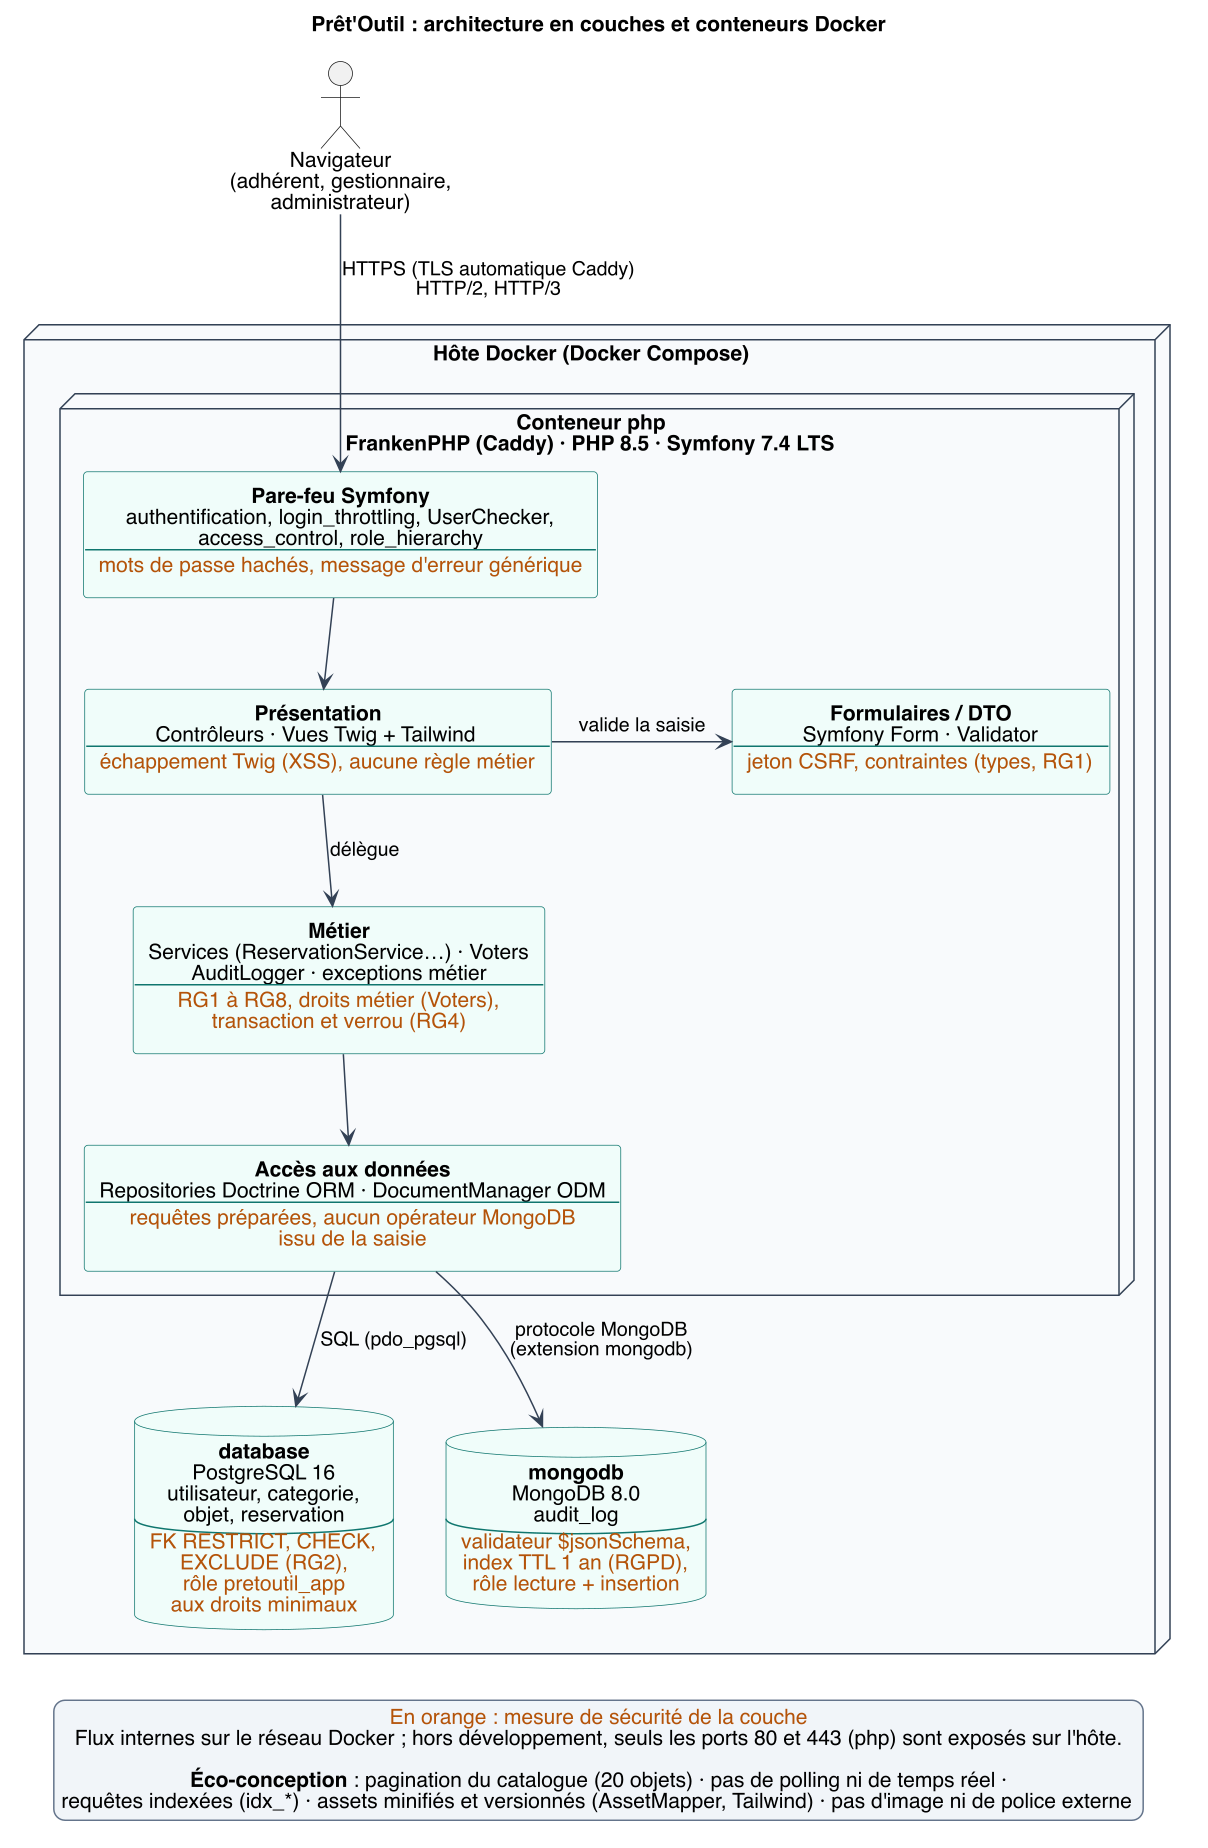
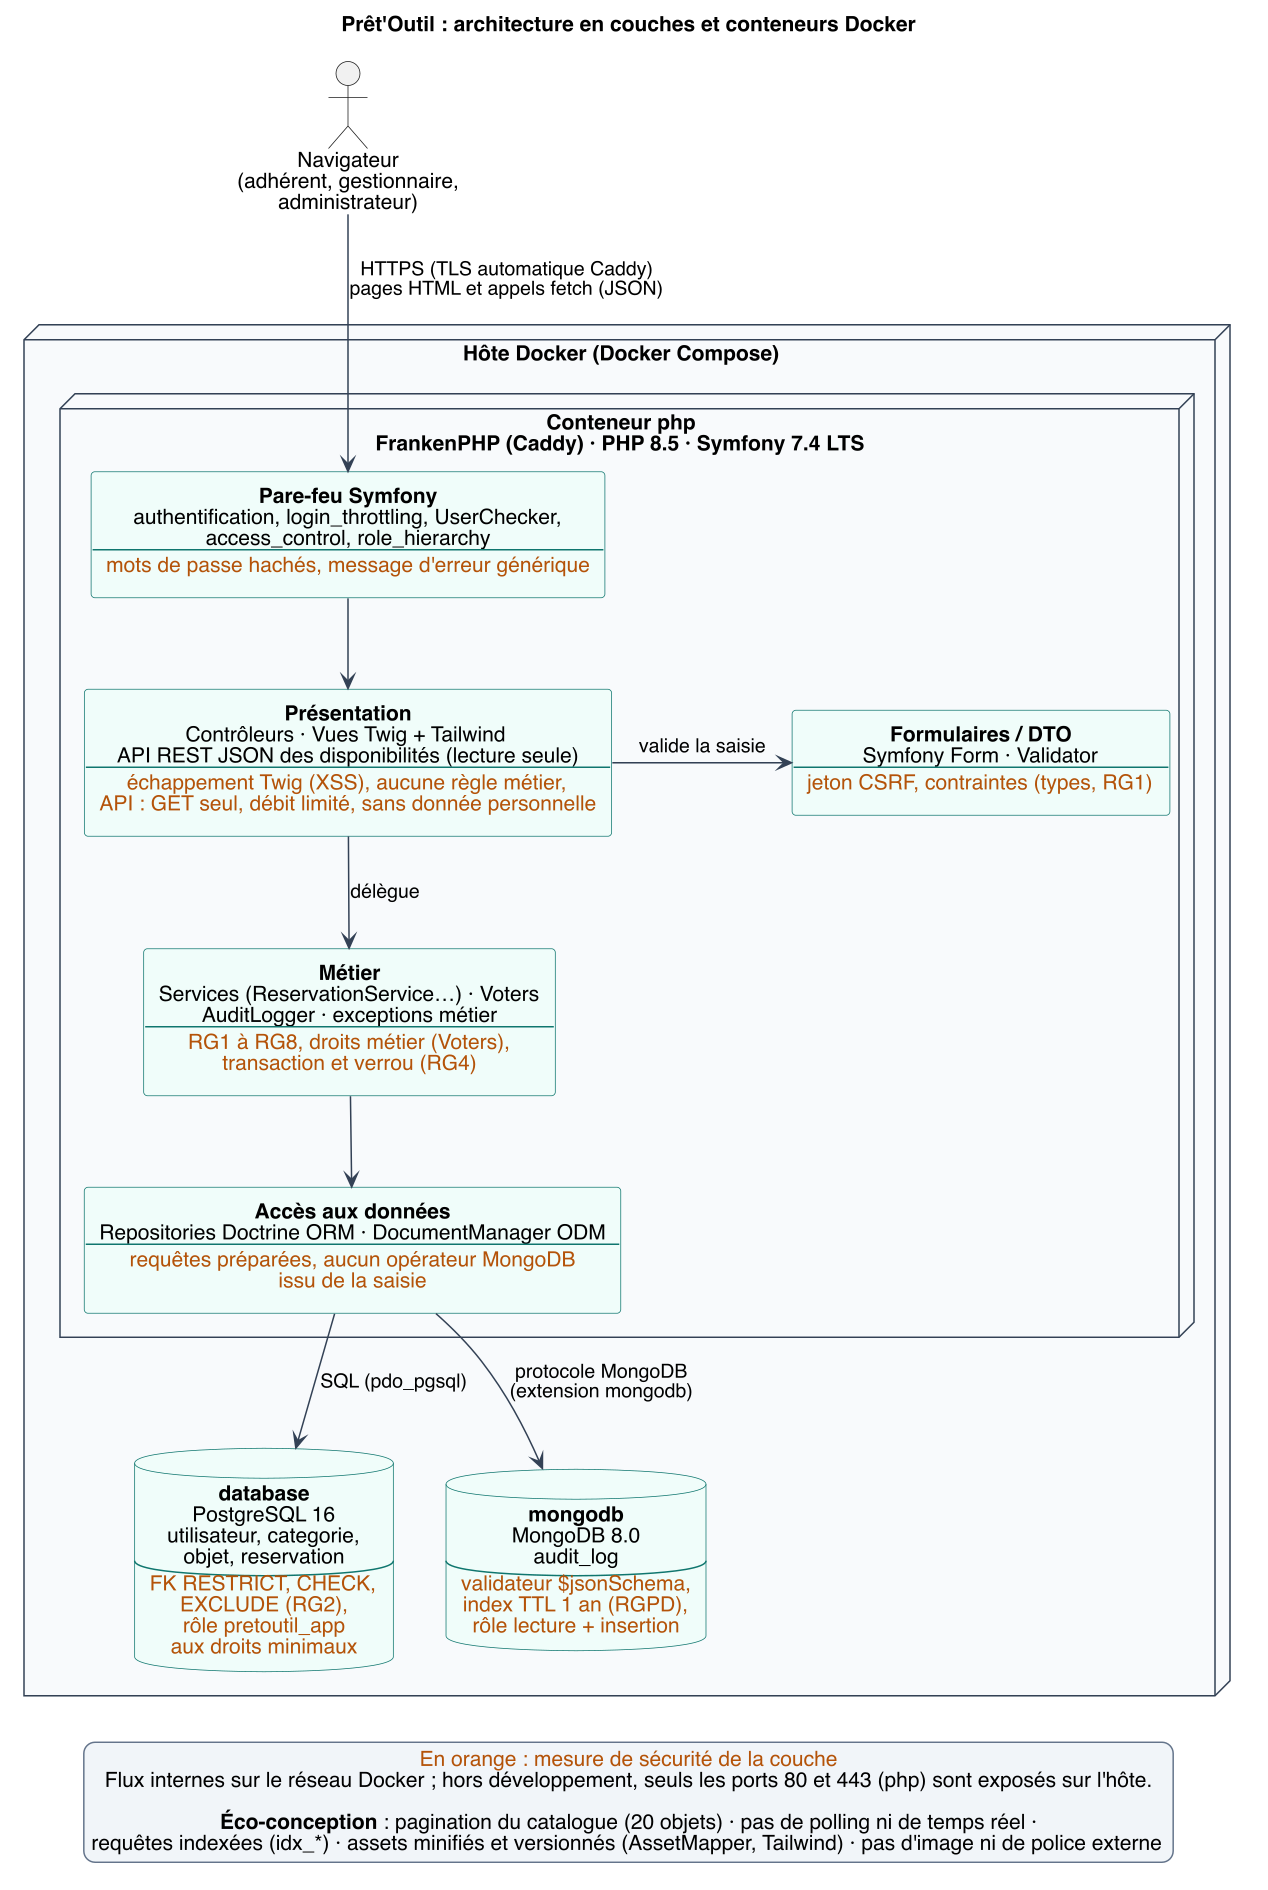
docs(api): documente l'API des disponibilités et l'ajoute au schéma d'architecture
Le jury doit retrouver le point d'accès, ses réponses, ses erreurs et ses mesures de sécurité, et voir l'API dans l'architecture répartie présentée.

Changed region(s): [[0.0306, 0.0, 0.9801, 0.987]]

diff --git a/docs/conception/api.md b/docs/conception/api.md
@@ -1,0 +1,115 @@
+# API REST des disponibilités
+
+Ticket : [#49 J6-C1 API REST des disponibilités (US11)](https://github.com/IamArayel/MSP2-PretOutil/issues/49) · Exigences : [cahier des charges, section 6.5](../cahier-des-charges.md#65-api-rest-des-disponibilités)
+
+API en lecture seule qui indique la disponibilité d'un objet. L'écran E4 l'appelle en JavaScript dès que l'adhérent a saisi ses dates, pour l'informer avant l'envoi du formulaire (US11). Elle rend l'architecture répartie concrète : un client appelle un service par HTTP et reçoit du JSON.
+
+## 1. Point d'accès
+
+```text
+GET /api/objets/{id}/disponibilites
+GET /api/objets/{id}/disponibilites?debut=AAAA-MM-JJ&fin=AAAA-MM-JJ
+```
+
+| Paramètre | Où | Obligatoire | Format | Rôle |
+|---|---|---|---|---|
+| `id` | Chemin | Oui | Entier | Identifiant de l'objet |
+| `debut` | Requête | Non, mais avec `fin` | `AAAA-MM-JJ` (ISO 8601) | Premier jour de la période à vérifier, inclus |
+| `fin` | Requête | Non, mais avec `debut` | `AAAA-MM-JJ` (ISO 8601) | Dernier jour de la période à vérifier, inclus |
+
+Accès public, comme le catalogue : aucune authentification, aucun jeton CSRF (aucune donnée n'est modifiée).
+
+## 2. Réponses
+
+### 200 : objet trouvé
+
+```json
+{
+    "objet": { "id": 12, "nom": "Tente 4 places" },
+    "statut_du_jour": { "code": "disponible", "libelle": "Disponible" },
+    "periodes_reservees": [
+        { "debut": "2026-12-01", "fin": "2026-12-03" }
+    ],
+    "periode_demandee": {
+        "debut": "2026-12-02",
+        "fin": "2026-12-04",
+        "disponible": false,
+        "motif": "Cet objet est déjà réservé sur une partie de cette période. Choisissez d'autres dates."
+    }
+}
+```
+
+| Champ | Contenu |
+|---|---|
+| `objet` | Identifiant et nom |
+| `statut_du_jour.code` | `disponible`, `reserve`, `sorti` ou `hors_service` (même calcul que le badge des écrans E3 et E4) |
+| `periodes_reservees` | Réservations actives à venir ou en cours : dates seulement, jamais l'adhérent |
+| `periode_demandee` | Présent seulement si `debut` et `fin` sont fournis |
+| `periode_demandee.disponible` | `true` si la réservation serait acceptée sur cette période |
+| `periode_demandee.motif` | Message de la règle qui la refuserait, `null` si disponible |
+
+La disponibilité applique les règles de `ReservationService` par sa méthode `verifierDisponibilite()`, sans les recopier : RG1 (dates), RG3 (14 jours), RG5 (objet hors service) et retour en retard, RG2 (chevauchement). Le quota RG4 dépend de l'adhérent et n'est pas vérifié par l'API, qui est publique. L'API informe seulement : à l'envoi du formulaire, `reserver()` revérifie toutes les règles, sous verrou.
+
+### Erreurs
+
+Toutes les erreurs ont la forme `{"erreur": "message"}`, mise en place par `App\EventSubscriber\ApiExceptionSubscriber` pour les chemins `/api/`.
+
+| Code | Cas | Message |
+|---|---|---|
+| 400 | Date inexistante ou mal formée (`2026-02-30`, `2026-12-1`, `demain`) | Le paramètre debut (ou fin) doit être une date au format AAAA-MM-JJ. |
+| 400 | Une seule des deux dates | Les paramètres debut et fin vont ensemble. |
+| 404 | Objet inconnu ou retiré du catalogue | Objet introuvable. |
+| 405 | Méthode autre que `GET` | Méthode non autorisée : l'API est en lecture seule (GET). |
+| 429 | Plus de 30 appels par minute depuis la même adresse IP ; en-tête `Retry-After` | Trop de requêtes. Réessayez dans quelques instants. |
+| 500 | Erreur inattendue | Erreur interne. (aucun détail technique) |
+
+Une période refusée par une règle de gestion n'est pas une erreur : la réponse est 200, avec `disponible: false` et le motif.
+
+## 3. Exemples
+
+```bash
+curl -k "https://localhost/api/objets/12/disponibilites"
+curl -k "https://localhost/api/objets/12/disponibilites?debut=2026-12-02&fin=2026-12-04"
+```
+
+## 4. Sécurité et sobriété
+
+| Mesure | Mise en œuvre |
+|---|---|
+| Lecture seule | Route déclarée en `GET` ; toute autre méthode renvoie 405 |
+| Minimisation (RGPD) | Dates et statuts seulement ; un test vérifie que l'email et le nom de l'adhérent n'apparaissent pas |
+| Entrées validées | Format exact `AAAA-MM-JJ`, les deux dates ensemble ; identifiant numérique (`requirements`) |
+| Limitation de débit | `symfony/rate-limiter`, fenêtre glissante, 30 appels par minute et par adresse IP (`config/packages/rate_limiter.yaml`) |
+| Pas de fuite d'information | Messages d'erreur génériques, sauf pour les erreurs de saisie |
+| Échappement | Protections par défaut de `JsonResponse` conservées ; côté client, le message est inséré avec `textContent`, jamais `innerHTML` |
+| Fraîcheur | `Cache-Control: no-store` : une disponibilité n'est jamais servie depuis un cache |
+| Pas de polling | Un appel à chaque modification d'une date ; une saisie plus récente annule l'appel en cours |
+
+## 5. Client : écran E4
+
+Le module [assets/disponibilites.js](../../assets/disponibilites.js) est chargé par AssetMapper sur toutes les pages, mais n'agit que sur un formulaire qui porte l'attribut `data-disponibilites-url`, c'est-à-dire le formulaire de réservation de E4 affiché à un adhérent connecté.
+
+- Quand les deux dates sont remplies, il appelle l'API et affiche « Disponible sur ces dates. » ou le motif du refus.
+- Le message est placé dans une zone `aria-live` toujours présente dans la page : les lecteurs d'écran l'annoncent.
+- Amélioration progressive : sans JavaScript, ou si l'API ne répond pas, rien n'est affiché et le formulaire fonctionne comme avant.
+
+Un visiteur non connecté n'a pas de formulaire sur E4 : il vérifie les disponibilités avec le filtre de période du catalogue (E3).
+
+## 6. Tests
+
+[tests/Controller/Api/DisponibiliteControllerTest.php](../../tests/Controller/Api/DisponibiliteControllerTest.php), 14 tests fonctionnels (vraies requêtes HTTP sur la base de test, transaction annulée après chaque test) :
+
+| Cas | Attendu |
+|---|---|
+| Sans période | 200, JSON, `no-store`, objet, statut du jour, périodes réservées, pas de `periode_demandee` |
+| Données personnelles | Ni l'email ni le nom de l'adhérent dans la réponse |
+| Période qui chevauche une réservation | `disponible: false`, motif RG2 |
+| Période libre | `disponible: true`, motif `null` |
+| Objet hors service | Statut `hors_service`, `disponible: false` |
+| Mêmes règles que la réservation | Motifs RG1 (début passé) et RG3 (15 jours) |
+| 4 paramètres invalides | 400 et `erreur` |
+| Objet désactivé, objet inconnu | 404 en JSON |
+| `POST` | 405 en JSON |
+| 31 appels | Les 30 premiers acceptés, le 31e : 429 et `Retry-After` |
+
+Vérifié aussi par `curl` sur la base de développement : mêmes réponses, et 429 après 30 appels dans la minute.

diff --git a/README.md b/README.md
@@ -222,6 +222,7 @@ Schéma complet (couches, conteneurs Docker, sécurité, éco-conception) : [doc
 | Conventions de nommage | [docs/conception/conventions-nommage.md](docs/conception/conventions-nommage.md) | |
 | Requêtes du catalogue (vérification et plan d'exécution) | [docs/conception/requetes-catalogue.md](docs/conception/requetes-catalogue.md) | |
 | ReservationService : règles, exceptions et vérification | [docs/conception/reservation-service.md](docs/conception/reservation-service.md) | |
+| API REST des disponibilités (point d'accès, réponses, erreurs, sécurité, tests) | [docs/conception/api.md](docs/conception/api.md) | |
 | Diagramme de séquence « Réserver un objet » | [PlantUML](docs/diagrammes/sequence-reserver.puml), [note](docs/diagrammes/sequence-reserver.md) | [SVG](docs/diagrammes/sequence-reserver.svg), [PNG](docs/diagrammes/sequence-reserver.png) |
 | Schéma d'architecture | [PlantUML](docs/diagrammes/architecture.puml), [note](docs/diagrammes/architecture.md) | [SVG](docs/diagrammes/architecture.svg), [PNG](docs/diagrammes/architecture.png) |
 
@@ -482,6 +483,14 @@ docker compose exec php bin/console app:mongodb:check
 
 `app:mongodb:check` lit la collection `audit_log` avec le compte applicatif, puis vérifie qu'une écriture dans une autre collection est refusée.
 
+### API REST des disponibilités
+
+`GET /api/objets/{id}/disponibilites`, avec `debut` et `fin` facultatifs (`AAAA-MM-JJ`) : lecture seule, publique, 30 appels par minute et par adresse IP. L'écran E4 l'appelle quand l'adhérent saisit ses dates. Documentation complète : [docs/conception/api.md](docs/conception/api.md).
+
+```bash
+curl -k "https://localhost/api/objets/1/disponibilites?debut=2026-12-02&fin=2026-12-04"
+```
+
 ### Tests
 
 PHPUnit est installé en dépendance de développement (`symfony/test-pack`). Les tests sont dans `tests/`, rangés comme le code de `src/`.
@@ -684,3 +693,8 @@ Aucun mot de passe n'est versionné. `compose.yaml` transmet `.env.local` aux tr
 | 2026-11-24 | Écran E5 dans un contrôleur dédié (`MesReservationsController`), page provisoire retirée de `EspaceController` | Une responsabilité par contrôleur ; évite un conflit avec le remplacement de `/gestion` par l'écran E6 (#55) |
 | 2026-11-24 | Bouton « Annuler » affiché selon `ReservationVoter::ANNULER`, action protégée par le même Voter et un jeton CSRF propre à chaque réservation | La règle RG6 n'est écrite qu'à un endroit ; un jeton ne peut pas servir à annuler une autre réservation |
 | 2026-11-24 | Liste E5 non paginée | Un adhérent a au plus 3 réservations actives et peu d'historique dans le MVP ; une requête avec jointure suffit (3 requêtes par page) |
+| 2026-11-24 | Disponibilité calculée par `ReservationService::verifierDisponibilite()`, qui réutilise les vérifications de `reserver()` hors quota | Une seule écriture des règles ; l'API informe, la réservation revérifie tout sous verrou ; le quota dépend de l'adhérent et l'API est publique |
+| 2026-11-24 | Erreurs de l'API au format JSON par un écouteur d'exceptions limité aux chemins `/api/`, messages génériques sauf erreurs de saisie | Même format pour 400, 404, 405, 429 et 500 ; rien du fonctionnement interne n'est révélé |
+| 2026-11-24 | Appel de l'API depuis E4 en amélioration progressive, zone `aria-live` toujours présente, message inséré avec `textContent` | Le formulaire marche sans JavaScript ; les lecteurs d'écran annoncent la réponse ; aucun risque d'injection HTML |
+| 2026-11-24 | US11 servie aux adhérents sur E4 ; les visiteurs vérifient une période avec le filtre du catalogue | Un visiteur n'a pas de formulaire de réservation sur E4 ; le filtre de E3 applique déjà les mêmes règles |
+| 2026-11-24 | Compteurs de la limitation de débit dans un cache sur disque vidé au début de chaque test | Symfony vide les services en mémoire entre deux requêtes d'un test : le test du 429 ne pouvait pas passer avec un cache en mémoire |

diff --git a/docs/diagrammes/architecture.md b/docs/diagrammes/architecture.md
@@ -21,6 +21,7 @@ Les dépendances vont dans un seul sens, de haut en bas : une couche n'appelle q
 |---|---|---|---|
 | Pare-feu | Security (`firewall`, `access_control`, `role_hierarchy`), `login_throttling`, `UserChecker` | Authentifier l'utilisateur et filtrer l'accès aux routes avant tout traitement | Mots de passe hachés (hasher `auto`), blocage après 5 échecs (US2), message d'erreur générique, compte désactivé refusé (RG9) |
 | Présentation | Contrôleurs, vues Twig, Tailwind | Recevoir la requête, déléguer, rendre la réponse | Échappement automatique Twig (XSS), aucune règle métier, aucun accès direct aux données |
+| Présentation (API) | `DisponibiliteController` (JSON), `ApiExceptionSubscriber`, module JavaScript de E4 | Répondre en JSON à un client qui appelle le service par HTTP (US11) | Méthode `GET` seule, débit limité par adresse IP, paramètres validés, aucune donnée personnelle, erreurs génériques ([api.md](../conception/api.md)) |
 | Formulaires / DTO | Symfony Form, Validator | Transporter et valider la saisie | Jeton CSRF, contraintes de type et de longueur, RG1 |
 | Métier | Services (`ReservationService`...), Voters, `AuditLogger` | Appliquer les règles de gestion et piloter les transactions | RG1 à RG8, droits métier par Voter (RG6), exceptions métier, verrou pour RG4, journalisation (RG8) |
 | Accès aux données | Repositories Doctrine ORM, `DocumentManager` Doctrine ODM | Lire et écrire les données | Requêtes préparées (DQL, QueryBuilder), aucun opérateur MongoDB construit à partir de la saisie |
